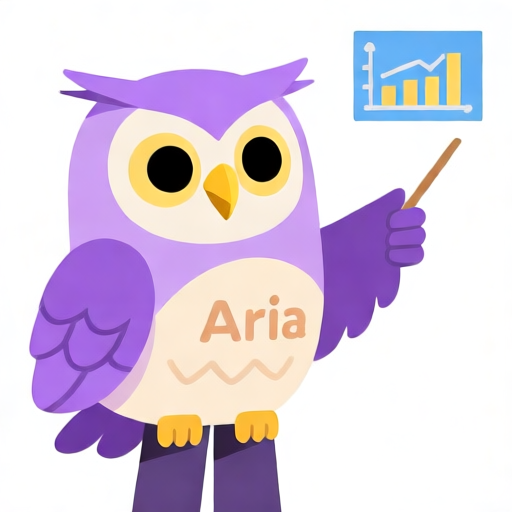
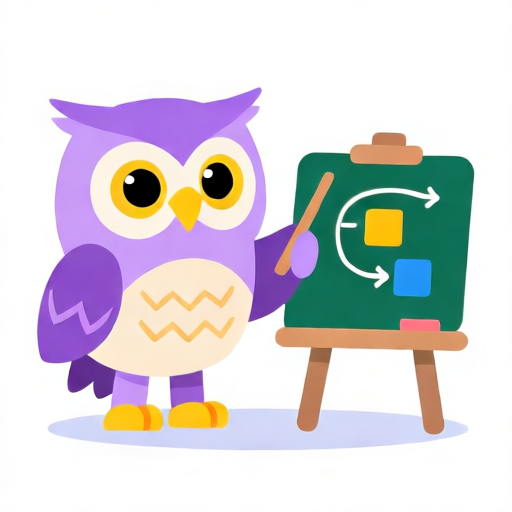
fix(mascots): retarget vocab + grammar poses for clearer mode association
Image #14 review: the existing 'flashcards' (small generic flashcards)
and 'chart' (bar chart) poses didn't read as 'vocabulary' or 'grammar'
to the user. Regenerated with prompts that unambiguously map to each
mode:

  - flashcards (vocab): Leo holds a giant yellow letter A; colorful
    floating A, B, C, D letter shapes around the head
  - chart (grammar): Leo stands beside a small green chalkboard easel
    showing a simple sentence-structure diagram (rectangles connected
    by a line), holds a wooden pointer

4 SF generations (Leo + Aria for both poses), ~¥0.3 spend. The slugs
'flashcards' and 'chart' stay since they're internal identifiers; the
visual content is what matters to users.

diff --git a/apps/web/scripts/generate-mascot-assets.ts b/apps/web/scripts/generate-mascot-assets.ts
@@ -63,8 +63,8 @@ const POSES: Pose[] = [
   { slug: "listening", verb: "wearing oversized headphones, head tilted slightly, full body view, eyes closed in concentration, peaceful expression" },
   { slug: "writing", verb: "holding a pencil and writing on a small notepad, full body view, focused happy expression" },
   { slug: "microphone", verb: "holding a microphone close to its mouth, full body view, confident expression as if about to speak" },
-  { slug: "flashcards", verb: "holding a small stack of flashcards in one paw or wing, presenting them to the viewer, full body view, helpful expression" },
-  { slug: "chart", verb: "pointing at a small floating bar chart with a pointer-stick, full body view, teaching expression" },
+  { slug: "flashcards", verb: "holding up a large bright alphabet letter card showing a clear capital letter A or B, three to four colorful floating cartoon letter shapes around the head (A, B, C, D), full body view, encouraging smile" },
+  { slug: "chart", verb: "standing beside a small green chalkboard easel that shows a simple cartoon sentence-structure diagram (three colored rectangles connected by curving lines with arrow tips, like a sentence tree), holding a small wooden pointer, full body view, teaching pose" },
   { slug: "celebrating", verb: "both arms or wings raised in the air in joyful celebration, full body view, mouth open in happy laugh" },
   { slug: "thinking", verb: "sitting with one paw or wing under chin, eyes looking up, full body view, contemplative expression with question marks floating beside head" },
   { slug: "sleeping", verb: "curled up sleeping with eyes closed, small zzz floating above, full body view in cozy resting pose" },
